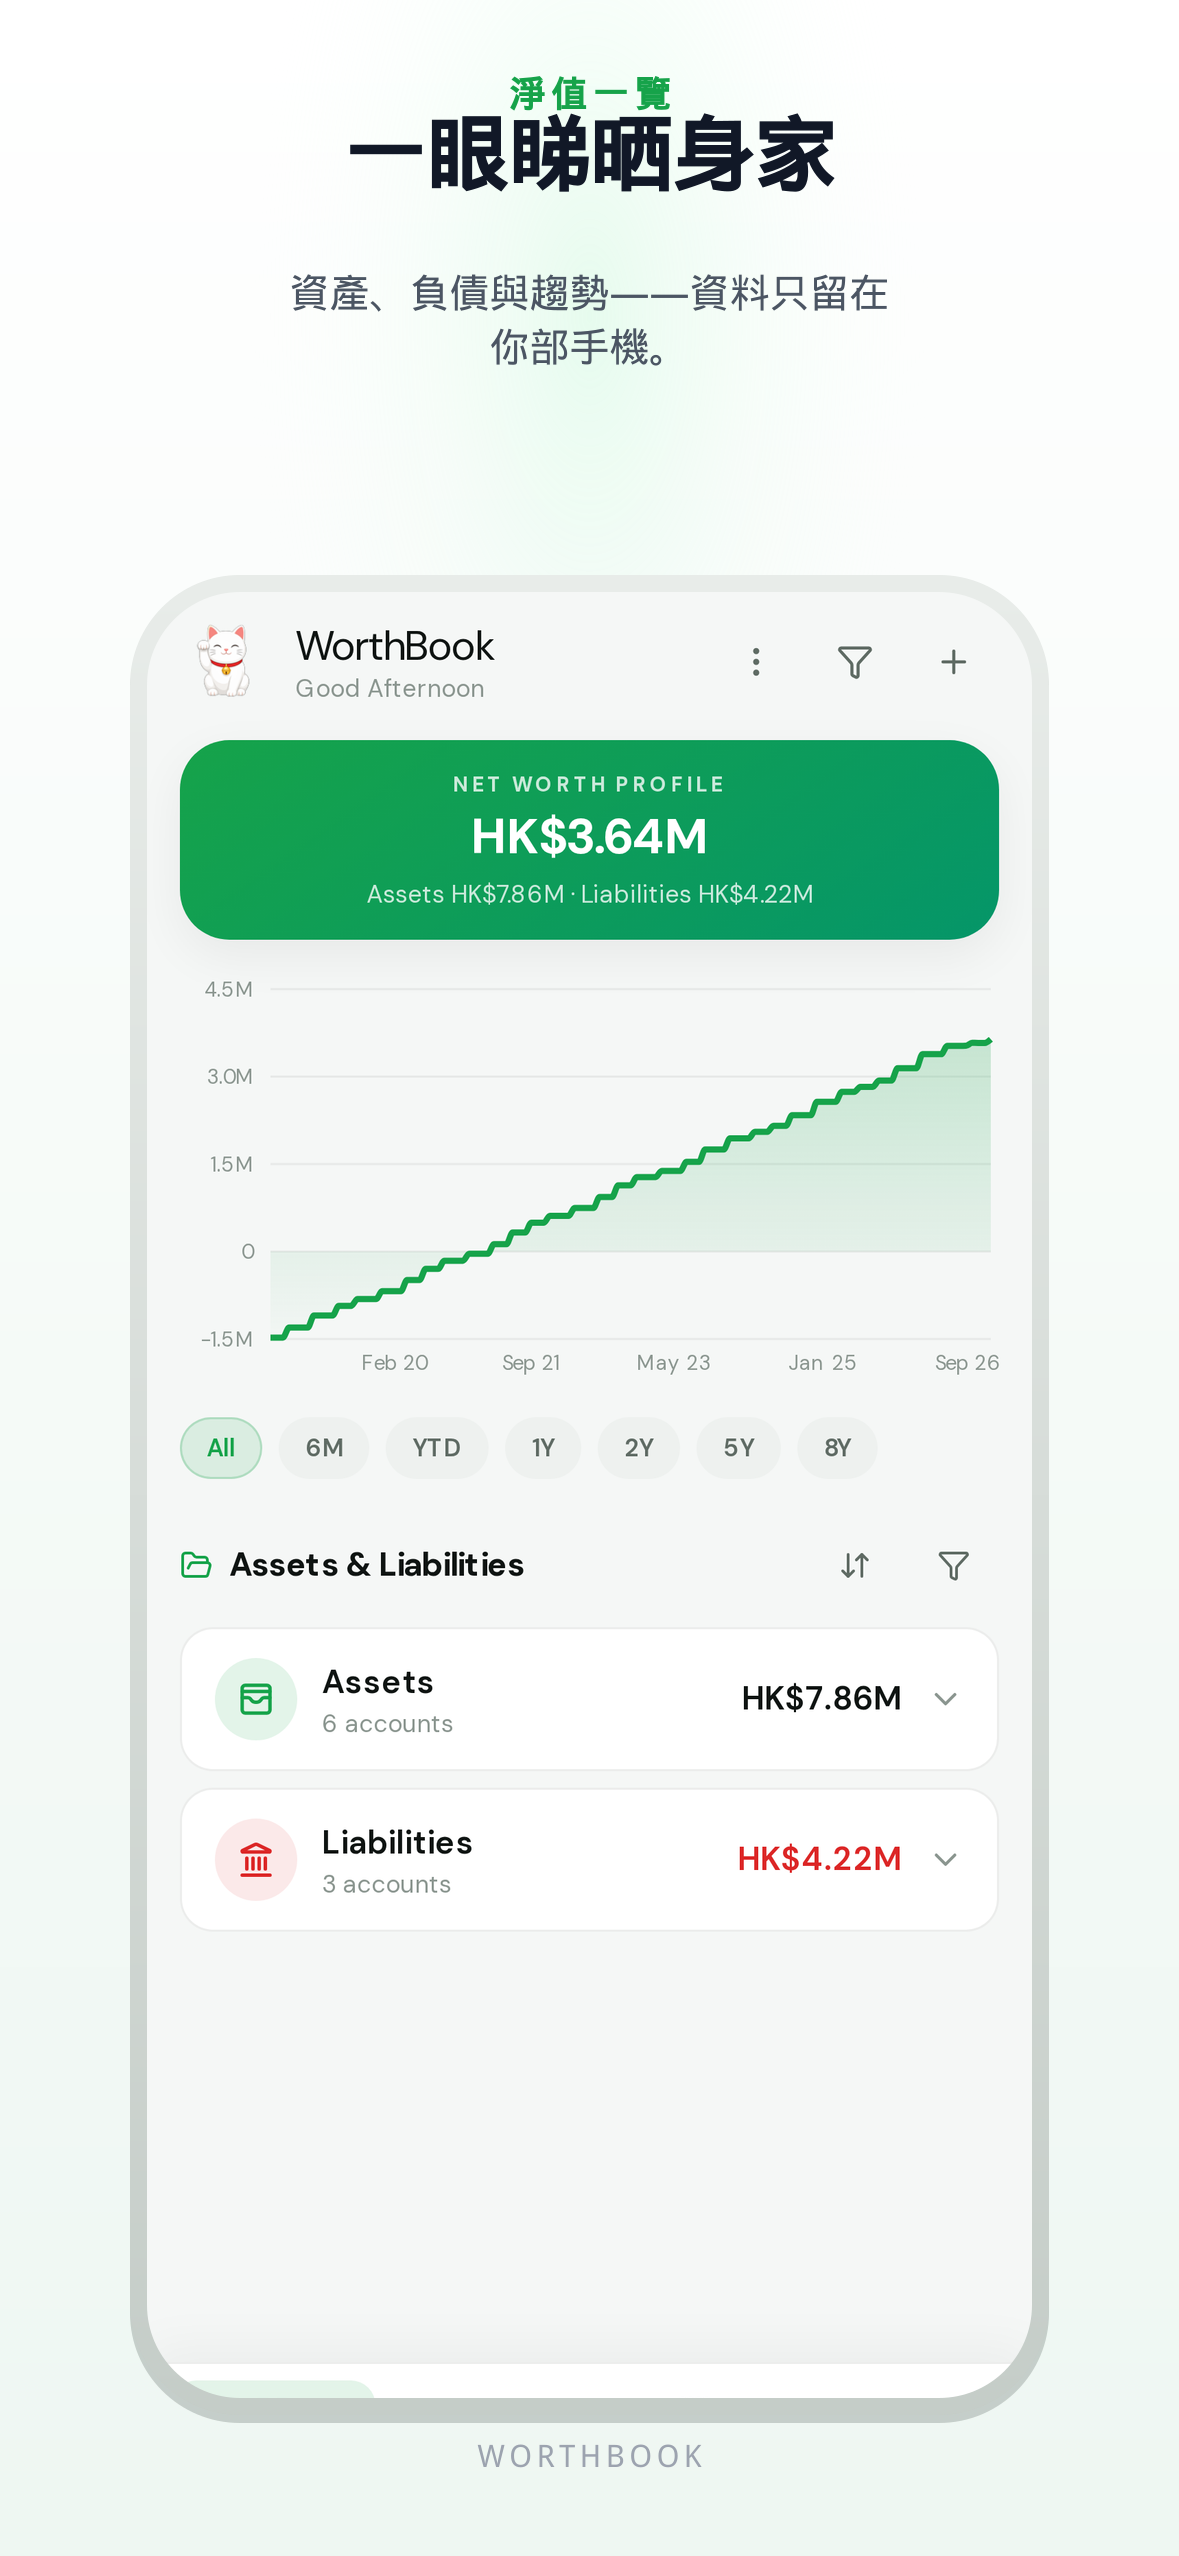
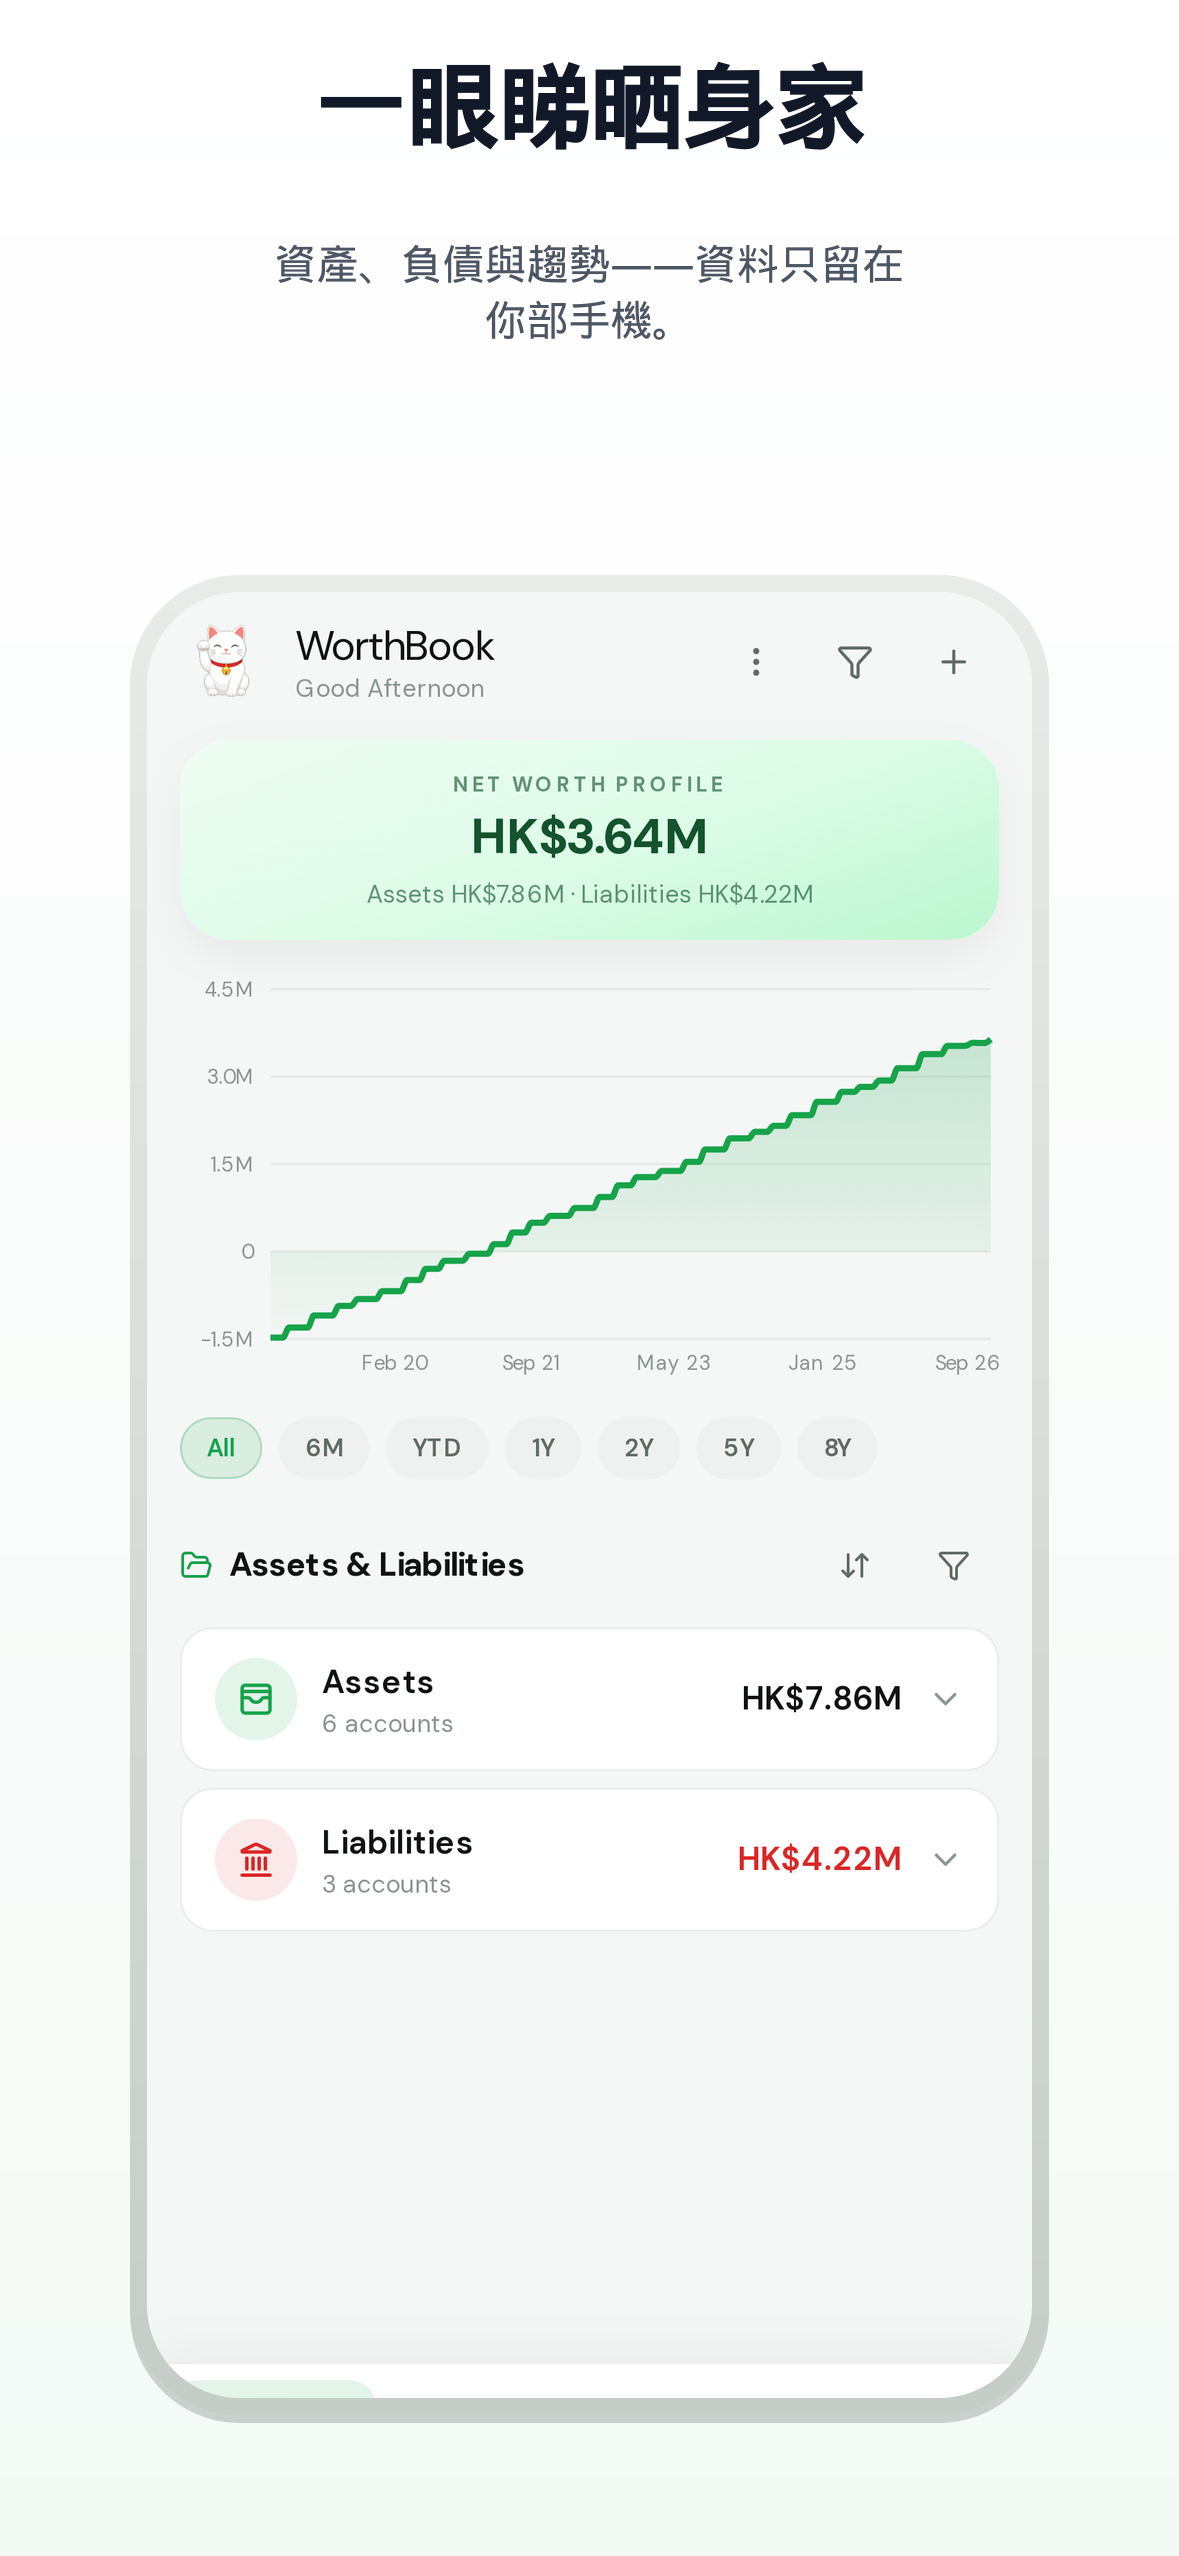
Fix App Store shots: true light hero, drop green labels
Soften light-mode net-worth hero to a mint card with dark text so
screenshots read as white/light UI instead of a dark green slab.
Regenerate marketing frames with title+subtitle only (no green
eyebrow or WORTHBOOK footer).

Changed region(s): [[0.1527, 0.2782, 0.855, 0.3709], [0.2748, 0.0, 0.7634, 0.1545], [0.2443, 0.0927, 0.3053, 0.1236]]

diff --git a/src/components/NetWorthHero.tsx b/src/components/NetWorthHero.tsx
@@ -33,7 +33,7 @@ export function NetWorthHero() {
         <button
           type="button"
           className="inline-flex h-10 w-10 items-center justify-center rounded-xl transition"
-          style={{ background: "rgba(255,255,255,0.16)", color: "var(--hero-fg)" }}
+          style={{ background: "var(--hero-chip)", color: "var(--hero-fg)" }}
           aria-label={privacy ? "Show balances" : "Hide balances"}
           onClick={() => updateSettings({ isPrivacyMode: !privacy })}
         >
@@ -78,7 +78,7 @@ export function NetWorthHero() {
       <div className="mt-5 grid grid-cols-2 gap-3">
         <div
           className="rounded-2xl p-3"
-          style={{ background: "rgba(255,255,255,0.14)", border: "1px solid rgba(255,255,255,0.12)" }}
+          style={{ background: "var(--hero-chip)", border: "1px solid var(--hero-chip-border)" }}
         >
           <p className="text-[11px] font-bold uppercase tracking-wide" style={{ color: "var(--hero-muted)" }}>
             Assets
@@ -92,7 +92,7 @@ export function NetWorthHero() {
         </div>
         <div
           className="rounded-2xl p-3"
-          style={{ background: "rgba(255,255,255,0.14)", border: "1px solid rgba(255,255,255,0.12)" }}
+          style={{ background: "var(--hero-chip)", border: "1px solid var(--hero-chip-border)" }}
         >
           <p className="text-[11px] font-bold uppercase tracking-wide" style={{ color: "var(--hero-muted)" }}>
             Liabilities
@@ -131,8 +131,9 @@ function GrowthPill({
     <div
       className="inline-flex items-center gap-1.5 rounded-full px-3 py-1 text-sm font-semibold"
       style={{
-        background: muted ? "rgba(255,255,255,0.12)" : "rgba(255,255,255,0.2)",
+        background: "var(--hero-chip)",
         color: "var(--hero-fg)",
+        opacity: muted ? 0.85 : 1,
       }}
     >
       {positive ? <TrendingUp size={15} /> : <TrendingDown size={15} />}

diff --git a/src/app/globals.css b/src/app/globals.css
@@ -15,9 +15,12 @@
   --accent-hover: #15803d;
   --accent-soft: rgba(22, 163, 74, 0.12);
   --accent-fg: #ffffff;
-  --hero-bg: linear-gradient(145deg, #16a34a 0%, #059669 100%);
-  --hero-fg: #ffffff;
-  --hero-muted: rgba(255, 255, 255, 0.78);
+  /* Light mode: soft mint card + dark text (reads as light UI, not a dark slab) */
+  --hero-bg: linear-gradient(160deg, #f0fdf4 0%, #dcfce7 55%, #bbf7d0 100%);
+  --hero-fg: #14532d;
+  --hero-muted: rgba(20, 83, 45, 0.62);
+  --hero-chip: rgba(22, 163, 74, 0.12);
+  --hero-chip-border: rgba(22, 163, 74, 0.18);
   --danger: #dc2626;
   --danger-soft: rgba(220, 38, 38, 0.1);
   --positive: #16a34a;
@@ -48,6 +51,8 @@
   --hero-bg: linear-gradient(145deg, #15803d 0%, #059669 100%);
   --hero-fg: #ffffff;
   --hero-muted: rgba(255, 255, 255, 0.76);
+  --hero-chip: rgba(255, 255, 255, 0.14);
+  --hero-chip-border: rgba(255, 255, 255, 0.12);
   --danger: #f87171;
   --danger-soft: rgba(248, 113, 113, 0.12);
   --positive: #4ade80;
